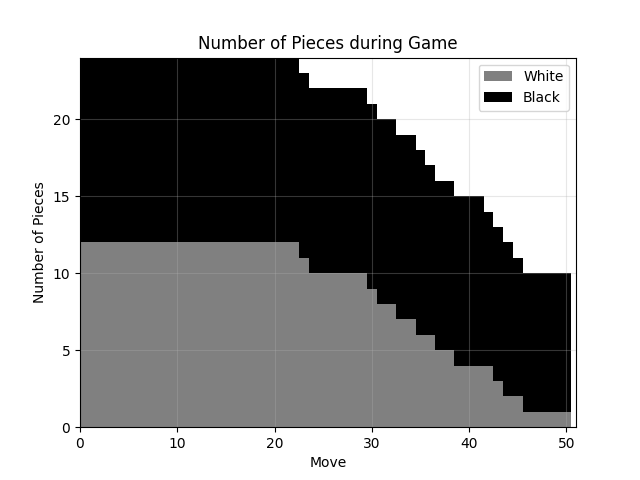
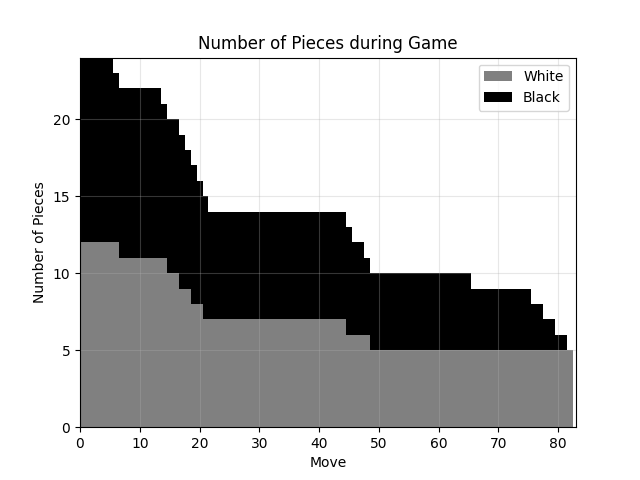
Updated

diff --git a/__main__.py b/__main__.py
@@ -11,7 +11,8 @@ def main():
     players = {
         # 'black': MinimaxPlayer('black', search_depth=3),
         'black': MctsPlayer('black'),
-        'white': MinimaxPlayer('white', search_depth=3)
+        'white': MctsPlayer('white'),
+        # 'white': MinimaxPlayer('white', search_depth=3)
     }
 
     whites = []
